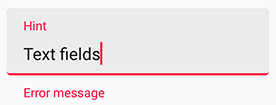
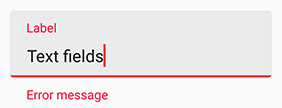
1.2.0

diff --git a/sample/src/main/java/studio/carbonylgroup/textfieldboxestest/MainActivity.java b/sample/src/main/java/studio/carbonylgroup/textfieldboxestest/MainActivity.java
@@ -6,7 +6,11 @@ import android.content.Intent;
 import android.content.SharedPreferences;
 import android.support.v7.app.AppCompatActivity;
 import android.os.Bundle;
+import android.text.Editable;
 import android.text.InputType;
+import android.text.TextWatcher;
+import android.util.Log;
+import android.view.KeyEvent;
 import android.view.View;
 import android.widget.Button;
 
@@ -42,6 +46,23 @@ public class MainActivity extends AppCompatActivity {
                     sharedPreferences.edit().putBoolean("dark", true).apply();
                     restart();
                 }
+            }
+        });
+
+        final TextFieldBoxes textFieldBoxes = findViewById(R.id.text_field_boxes);
+        textFieldBoxes.getEditText().addTextChangedListener(new TextWatcher() {
+            @Override
+            public void beforeTextChanged(CharSequence charSequence, int i, int i1, int i2) {
+            }
+
+            @Override
+            public void onTextChanged(CharSequence charSequence, int i, int i1, int i2) {
+            }
+
+            @Override
+            public void afterTextChanged(Editable editable) {
+                if (editable.toString().equals("wrong"))
+                    textFieldBoxes.setError("It's wrong");
             }
         });
     }

diff --git a/textfieldboxes/src/main/java/studio/carbonylgroup/textfieldboxes/TextFieldBoxes.java b/textfieldboxes/src/main/java/studio/carbonylgroup/textfieldboxes/TextFieldBoxes.java
@@ -494,7 +494,7 @@ public class TextFieldBoxes extends FrameLayout {
                     .translationY(0)
                     .setDuration(ANIMATION_DURATION);
 
-            this.editText.setVisibility(View.GONE);
+            this.editTextLayout.setVisibility(View.GONE);
 
             if (this.editText.hasFocus()) {
                 inputMethodManager.hideSoftInputFromWindow(editText.getWindowToken(), 0);
@@ -511,7 +511,7 @@ public class TextFieldBoxes extends FrameLayout {
      */
     protected void activate(boolean animated) {
 
-        this.editText.setVisibility(View.VISIBLE);
+        this.editTextLayout.setVisibility(View.VISIBLE);
 
         if (animated) {
 

diff --git a/README.md b/README.md
@@ -17,6 +17,19 @@ A new Material Design text field that comes in a box, based on Google Material D
 <a href='https://ko-fi.com/A3343PAW' target='_blank'><img height='36' style='border:0px;height:36px;' src='https://az743702.vo.msecnd.net/cdn/kofi4.png?v=0' border='0' alt='Buy Me a Coffee at ko-fi.com' /></a>
 
 
+## ***UPDATE NOTICE***
+#### 1.1.1 Release
+- fix the bug of when height (or width) is set to `wrap_content` yet fills up the whole space.
+
+- old `hint` attribute is **renamed** to `labelText`.
+
+- current `hint` attribute is for the **placeholder** text that is shown in the field when there is no text and is on focus.
+
+- add **Clear Button**, can be activated with `app:hasClearButton` in xml or `setHasClearButton(boolean hasClearButton)` in Java code.
+
+- add **End Icon**, can be activated with `app:endIcon` in xml or `setEndIcon(Int resourceID)` in Java code. Use `getEndIconImageButton()` to do something useful with it.
+
+
 ## Requirements
 - Android 4.0.3 IceCreamSandwich (API lv 15) or greater
 - Your favorite IDE
@@ -36,7 +49,7 @@ allprojects {
 ```
 ```groovy
 dependencies {
-    compile 'com.github.HITGIF:TextFieldBoxes:1.1.0'
+    compile 'com.github.HITGIF:TextFieldBoxes:1.1.1'
 }
 ```
 
@@ -53,7 +66,7 @@ dependencies {
 <dependency>
     <groupId>com.github.HITGIF</groupId>
     <artifactId>TextFieldBoxes</artifactId>
-    <version>1.1.0</version>
+    <version>1.1.1</version>
 </dependency>
 ```
 
@@ -62,7 +75,7 @@ dependencies {
 resolvers += "jitpack" at "https://jitpack.io"
 ```
 ```scala
-libraryDependencies += "com.github.HITGIF" % "TextFieldBoxes" % "1.1.0"
+libraryDependencies += "com.github.HITGIF" % "TextFieldBoxes" % "1.1.1"
 ```
 
 
@@ -71,7 +84,7 @@ libraryDependencies += "com.github.HITGIF" % "TextFieldBoxes" % "1.1.0"
 :repositories [["jitpack" "https://jitpack.io"]]
 ```
 ```scala
-:dependencies [[com.github.hitgif/textfieldboxes "1.1.0"]]
+:dependencies [[com.github.hitgif/textfieldboxes "1.1.1"]]
 ```
 
 
@@ -87,15 +100,15 @@ Add `studio.carbonylgroup.textfieldboxes.TextFieldBoxes` to your layout:
     android:id="@+id/text_field_boxes"
     android:layout_width="match_parent"
     android:layout_height="wrap_content"
-    android:hint="Hint" />
+    android:labelText="Label" />
 ...
 ```
 
-![](https://raw.githubusercontent.com/HITGIF/TextFieldBoxes/master/images/hint.png)![](https://raw.githubusercontent.com/HITGIF/TextFieldBoxes/master/images/input.png)
+![](https://raw.githubusercontent.com/HITGIF/TextFieldBoxes/master/images/label.png)![](https://raw.githubusercontent.com/HITGIF/TextFieldBoxes/master/images/input.png)
 
 #### 2. Enable / Disable
 
-`app:enabled` in xml or `setEnabled(boolean _enabled)` in Java.
+`app:enabled` in xml or `setEnabled(boolean enabled)` in Java.
 
 ```xml
 app:enabled="false"
@@ -105,7 +118,7 @@ app:enabled="false"
 
 #### 3. SingleLine
 
-Use `app:singleLine` in xml or `setSingleLine(boolean _singleLine)` in Java to set whether the EditText is single-lined, that scrolls horizontally.
+Use `app:singleLine` in xml or `setSingleLine(boolean singleLine)` in Java to set whether the EditText is single-lined, that scrolls horizontally.
 
 ```xml
 app:singleLine="true"
@@ -115,7 +128,7 @@ app:singleLine="true"
 
 #### 4. Helper Text and Error Text
 
-helper text: `app:helperText` in xml or `setHelperText(String _helperText)` in Java.
+helper text: `app:helperText` in xml or `setHelperText(String helperText)` in Java.
 
 ```xml
 app:helperText="Helper is here"
@@ -123,7 +136,7 @@ app:helperText="Helper is here"
 
 ![](https://raw.githubusercontent.com/HITGIF/TextFieldBoxes/master/images/helper.png)
 
-error text: `setError(String _errorText)` in Java.
+error text: `setError(String errorText)` in Java.
 
 *NOTE: Error will be removed when the text changes (input or delete).*
 
@@ -133,11 +146,21 @@ setError("Error message");
 
 ![](https://raw.githubusercontent.com/HITGIF/TextFieldBoxes/master/images/error.png)
 
-#### 5. Prefix & Suffix
+#### 5. Hint (Placeholder)
 
-Use `app:prefix` in xml or `setPrefix(String _prefix)` to set the unselectable prefix text at the start of the EditText.
+Use `app:hint` in xml or `setHint(String hint)` in Java to set the placeholder text that is shown in the field when there is no text and is on focus.
 
-Use `app:suffix` in xml or `setSuffix(String _suffix)` to set the unselectable suffix text at the end of the EditText.
+```xml
+app:hint = "Hint"
+```
+
+![](https://raw.githubusercontent.com/HITGIF/TextFieldBoxes/master/images/hint.png)
+
+#### 6. Prefix & Suffix
+
+Use `app:prefix` in xml or `setPrefix(String prefix)` in Java to set the unselectable prefix text at the start of the field.
+
+Use `app:suffix` in xml or `setSuffix(String suffix)` in Java to set the unselectable suffix text at the end of the field.
 
 ```xml
 app:prefix="$ "
@@ -152,9 +175,9 @@ app:suffix="\@gmail.com"
 
 ![](https://raw.githubusercontent.com/HITGIF/TextFieldBoxes/master/images/suffix.png)
 
-#### 6. Maxlines
+#### 7. Maxlines
 
-Use `app:maxLines` in xml or `setMaxLines(Int _maxlines)` to set the number of maximum lines allowed in the text field. `Integer.MAX_VALUE` by default.
+Use `app:maxLines` in xml or `setMaxLines(Int maxlines)` to set the number of maximum lines allowed in the text field. `Integer.MAX_VALUE` by default.
 
 ```xml
 app:maxLines="3"
@@ -162,11 +185,11 @@ app:maxLines="3"
 
 ![](https://raw.githubusercontent.com/HITGIF/TextFieldBoxes/master/images/maxlines.gif)
 
-#### 7. Max & Min Characters
+#### 8. Max & Min Characters
 
-Use `app:maxCharacters` in xml or `setMaxCharacters(int _maxCharacters)` in java code to set the max characters count.
+Use `app:maxCharacters` in xml or `setMaxCharacters(int maxCharacters)` in java code to set the max characters count.
 
-Use `app:minCharacters` in xml or `setMinCharacters(int _minCharacters)` in java code to set the min characters count.
+Use `app:minCharacters` in xml or `setMinCharacters(int minCharacters)` in java code to set the min characters count.
 
 The color of the bottom line will turn to `errorColor` (red by default) when exceeding max or min characters limit. `0`, as default, means no max or min characters.
 
@@ -185,9 +208,9 @@ app:maxCharacters="5"
 
 ![](https://raw.githubusercontent.com/HITGIF/TextFieldBoxes/master/images/maxChar.gif)
 
-#### 8. Icon Signifier
+#### 9. Icon Signifier
 
-Use `app:iconSignifier` in xml or `setIconSignifier(Int resourceID)` to set the icon that is shown in front of the TextFieldBoxes.
+Use `app:iconSignifier` in xml or `setIconSignifier(Int resourceID)` to set the icon that is shown in front of the TextFieldBoxes if you want there to be one.
 
 ```xml
 app:iconSignifier="@drawable/ic_vpn_key_black_24dp"
@@ -195,15 +218,49 @@ app:iconSignifier="@drawable/ic_vpn_key_black_24dp"
 
 ![](https://raw.githubusercontent.com/HITGIF/TextFieldBoxes/master/images/icon1.png)![](https://raw.githubusercontent.com/HITGIF/TextFieldBoxes/master/images/icon2.png)
 
-#### 9. Custom Colors
+#### 10. End Icon
 
-*Primary Color* will be used for the color of the underline and the hint text. You can use `app:primaryColor` in xml or `setPrimaryColor(int _colorRes)` in Java. Current theme `Primary Color` by default.
+Use `app:endIcon` in xml or `setEndIcon(Int resourceID)` to set the icon of the ImageButton that is shown at the end of the field if you want there to be one.
 
-*Error Color* will be used for the color that indicates error (e.g. exceeding max characters, `setError()`). You can use `app:errorColor` in xml or `setErrorColor(int _colorRes)` in Java. `A400 red` by default.
+```xml
+app:endIcon="@drawable/ic_mic_black_24dp"
+```
 
-*Helper Text Color* will be used for the color of the helper text. You can use `app:helperTextColor` in xml or `setHelperTextColor(int _colorRes)` in Java. `54% black` by default.
+![](https://raw.githubusercontent.com/HITGIF/TextFieldBoxes/master/images/mic.png)
 
-*Panel Background Color* will be used for the color of panel at the back. You can use `app:panelBackgroundColor` in xml or `setPanelBackgroundColor(int _colorRes)` in Java. `6% black` by default. *NOTE that the default color, as in the guideline, is the black (`#000000`) color with the transparency of 6%, so when you're customizing and want it to still be transparent you have to set a color with transparency.*
+To make it useful (trigger voice input, dropdown event), you would like to use `getEndIconImageButton()` in Java code to set, for example, what will happen when it's clicked (with `.setOnClickListener()`), or anything else you want.
+
+```java
+final TextFieldBoxes textFieldBoxes = findViewById(R.id.text_field_boxes);
+textFieldBoxes.getEndIconImageButton().setOnClickListener(new View.OnClickListener() {
+    @Override
+    public void onClick(View view) {
+        // What you want to do when it's clicked
+    }
+});
+```
+
+#### 11. Clear Button
+
+Use `app:hasClearButton` in xml or `setHasClearButton(boolean hasClearButton)` to set whether to show the clear button.
+
+If `true`, a clear button will be shown at the end when there are characters (**ANY** character) entered in the field.
+
+```xml
+app:hasClearButton="true"
+```
+
+![](https://raw.githubusercontent.com/HITGIF/TextFieldBoxes/master/images/clearButton.png)
+
+#### 12. Custom Colors
+
+*Primary Color* will be used for the color of the underline and the floating label text. You can use `app:primaryColor` in xml or `setPrimaryColor(int colorRes)` in Java. Current theme `Primary Color` by default.
+
+*Error Color* will be used for the color that indicates error (e.g. exceeding max characters, `setError()`). You can use `app:errorColor` in xml or `setErrorColor(int colorRes)` in Java. `A400 red` by default.
+
+*Helper Text Color* will be used for the color of the helper text. You can use `app:helperTextColor` in xml or `setHelperTextColor(int colorRes)` in Java. `54% black` by default.
+
+*Panel Background Color* will be used for the color of panel at the back. You can use `app:panelBackgroundColor` in xml or `setPanelBackgroundColor(int colorRes)` in Java. `6% black` by default. *NOTE that the default color, as in the guideline, is the black (`#000000`) color with the transparency of 6%, so when you're customizing and want it to still be transparent you have to set a color with transparency.*
 
 ```xml
 app:primaryColor="#1B5E20"          <!--Green-->
@@ -214,7 +271,7 @@ app:panelBackgroundColor="#ffe8e8"  <!--Pink-->
 
 ![](https://raw.githubusercontent.com/HITGIF/TextFieldBoxes/master/images/customColor1.png) ![](https://raw.githubusercontent.com/HITGIF/TextFieldBoxes/master/images/customColor2.png)
 
-#### 10. Customize EditText
+#### 13. Customize EditText
 
 If you want to customize the `EditText` in the `TextFieldBoxes` (which is a inherited `FrameLayout` that contains a `EditText` for input), use the `getEditText()` methond in Java and do whatever you like (e.g. `setOnKeyListener()`, `addTextChangedListener()`)
 
@@ -223,12 +280,10 @@ final TextFieldBoxes textFieldBoxes = findViewById(R.id.text_field_boxes);
 textFieldBoxes.getEditText().addTextChangedListener(new TextWatcher() {
     @Override
     public void beforeTextChanged(CharSequence charSequence, int i, int i1, int i2) {
-
     }
 
     @Override
     public void onTextChanged(CharSequence charSequence, int i, int i1, int i2) {
-
     }
 
     @Override
@@ -241,7 +296,7 @@ textFieldBoxes.getEditText().addTextChangedListener(new TextWatcher() {
 
 ![](https://raw.githubusercontent.com/HITGIF/TextFieldBoxes/master/images/edittext.gif)
 
-#### 11. Dark Theme
+#### 14. Dark Theme
 
 TextFieldBoxes use the color attributes within the current theme and will automatically change its color to fit the dark theme without additional settings.
 
@@ -257,8 +312,9 @@ TextFieldBoxes use the color attributes within the current theme and will automa
 | Attribute | Description |
 | --- | --- |
 | `app:text` | EditText text |
-| `app:hint` | Hint text at the top |
+| `app:labelText` | Floating label text at the top |
 | `app:helperText` | Helper text at the bottom |
+| `app:hint` | Placeholder text that is shown in the EditText when there is no text and is on focus |
 | `app:prefix` | Prefix Text |
 | `app:suffix` | Suffix Text |
 
@@ -268,10 +324,10 @@ TextFieldBoxes use the color attributes within the current theme and will automa
 | --- | --- | --- |
 | `app:helperTextColor` | Helper text color | Current theme `textColorTertiary` |
 | `app:errorColor` | The color that is used to indicate error (e.g. exceeding max characters, `setError()`) | `A400 red` |
-| `app:primaryColor` | The color for the underline and the hint text | Current theme `colorPrimary` |
+| `app:primaryColor` | The color for the underline and the floating label text | Current theme `colorPrimary` |
 | `app:prefixTextColor` | Prefix text color | Current theme `textColorTertiary` |
 | `app:suffixTextColor` | Suffix text color | Current theme `textColorTertiary` |
-| `app:panelBackgroundColor` | The color for the panel at the back | 6% `colorForeground` |
+| `app:panelBackgroundColor` | The color for the panel at the back | 6% Current theme `colorForeground` |
 
 #### Characters counter
 
@@ -288,6 +344,8 @@ TextFieldBoxes use the color attributes within the current theme and will automa
 | `app:singleLine` | Whether the EditText is single-lined | `False` |
 | `app:maxLines` | The number of maximum lines allowed in the text field | `Integer.MAX_VALUE` |
 | `app:iconSignifier` | The resource ID of the icon before the TextFieldBoxes | `0` |
+| `app:endIcon` | The resource ID of the icon at the end of the field | `0` |
+| `app:hasClearButton` | Whether to show the clear button at the end of the EditText | `False` |
 | `app:hasFocus` | Whether the EditText is having the focus | `False` |
 
 
@@ -295,8 +353,9 @@ TextFieldBoxes use the color attributes within the current theme and will automa
 + [X] Prefix & Suffix
 + [X] Icon signifier
 + [X] Dark theme
-+ [ ] Delete Button
-+ [ ] Placeholder (real "hint")
++ [X] Delete Button
++ [X] End Icon
++ [X] Placeholder (real "hint")
 
 
 ## License
